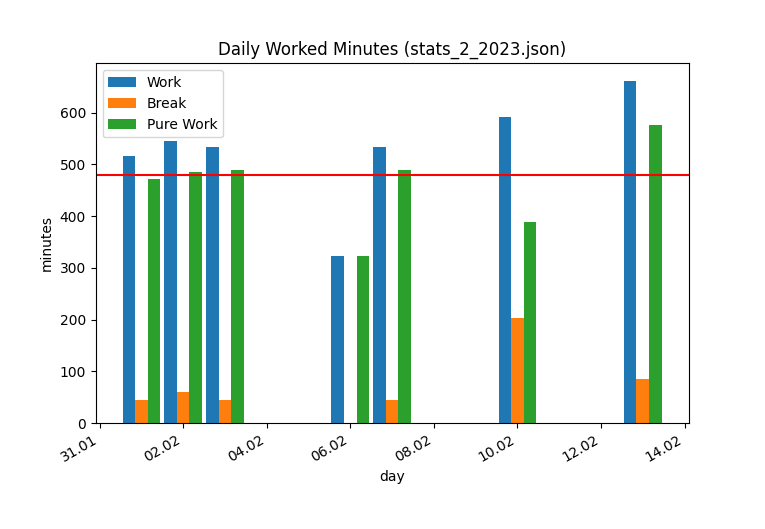
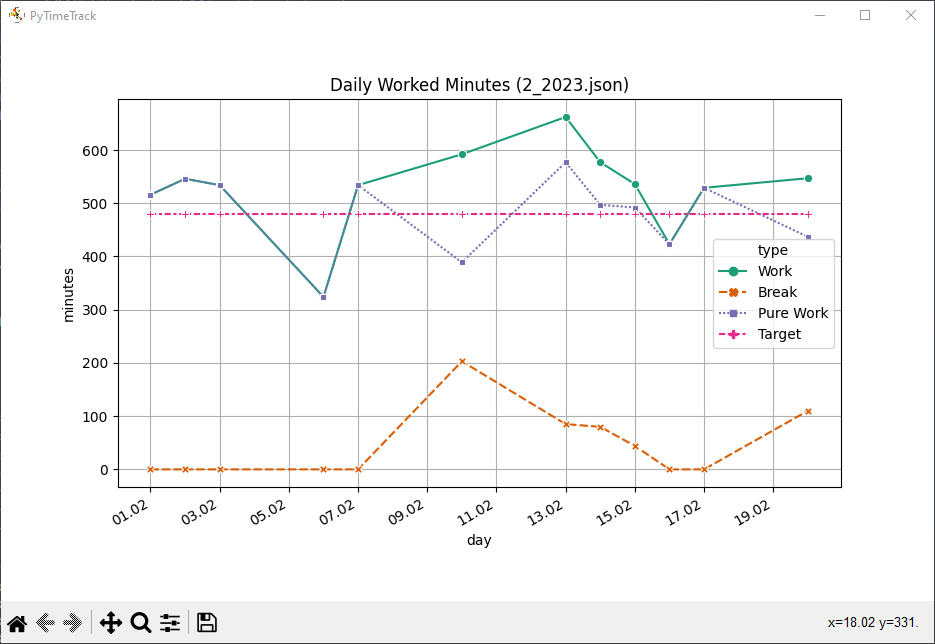
Switch to seaborn and plot lines instead of bars

diff --git a/src/statistics/stats_visualization.py b/src/statistics/stats_visualization.py
@@ -1,9 +1,13 @@
+from typing import Final
 import matplotlib.pyplot as plt
 import matplotlib.dates as mdates
+import seaborn as sns
 from pandas import DataFrame
 
 
 class StatsVisualization:
+    STYLE_PALETTE: Final[str] = "Dark2"
+
     def bar_daily_worked_minutes(self, title: str, stats: DataFrame):
         """Creates a bar chart showing the daily worked minutes, breaks and the daily target line.
 
@@ -11,32 +15,47 @@ class StatsVisualization:
             stats (DataFrame): Statistics holding information about daily worked minutes and breaks.
         """
         fig, ax = plt.subplots(num="PyTimeTrack")
+
+        # Transform data from wide to long format for visualization
+        df_stats_vis = stats.reset_index()
+        df_stats_vis.drop("default_break_minutes", axis=1, inplace=True)
+        df_stats_vis = df_stats_vis.rename(
+            columns={
+                "total_work_minutes": "Work",
+                "total_break_minutes": "Break",
+                "total_work_without_break": "Pure Work",
+                "target_work_minutes": "Target",
+            }
+        )
+        df_stats_vis = df_stats_vis.melt(
+            id_vars="day",
+            value_vars=[
+                "Work",
+                "Break",
+                "Pure Work",
+                "Target",
+            ],
+        )
+        df_stats_vis = df_stats_vis.rename(columns={"variable": "type"})
+
+        # Adapt plot
         ax.set_title(title)
         fig.autofmt_xdate()
         xfmt = mdates.DateFormatter("%d.%m")
         ax.xaxis.set_major_formatter(xfmt)
         ax.set_xlabel("day")
         ax.set_ylabel("minutes")
+        plt.grid()
 
-        x_axis = mdates.date2num(stats["day"])
-        x_width = 0.3
-
-        ax.bar(
-            x_axis - x_width,
-            stats["total_work_minutes"],
-            width=x_width,
+        sns.lineplot(
+            data=df_stats_vis,
+            x="day",
+            y="value",
+            hue="type",
+            ax=ax,
+            style="type",
+            markers=True,
+            dashes=True,
+            palette=self.STYLE_PALETTE,
         )
-        ax.bar(
-            x_axis,
-            stats["total_break_minutes"],
-            width=x_width,
-        )
-        ax.bar(
-            x_axis + x_width,
-            stats["total_work_without_break"],
-            width=x_width,
-        )
-
-        plt.legend(["Work", "Break", "Pure Work", "Target Work"])
-        plt.axhline(y=stats["target_work_minutes"][0], color="red")
         plt.show()
